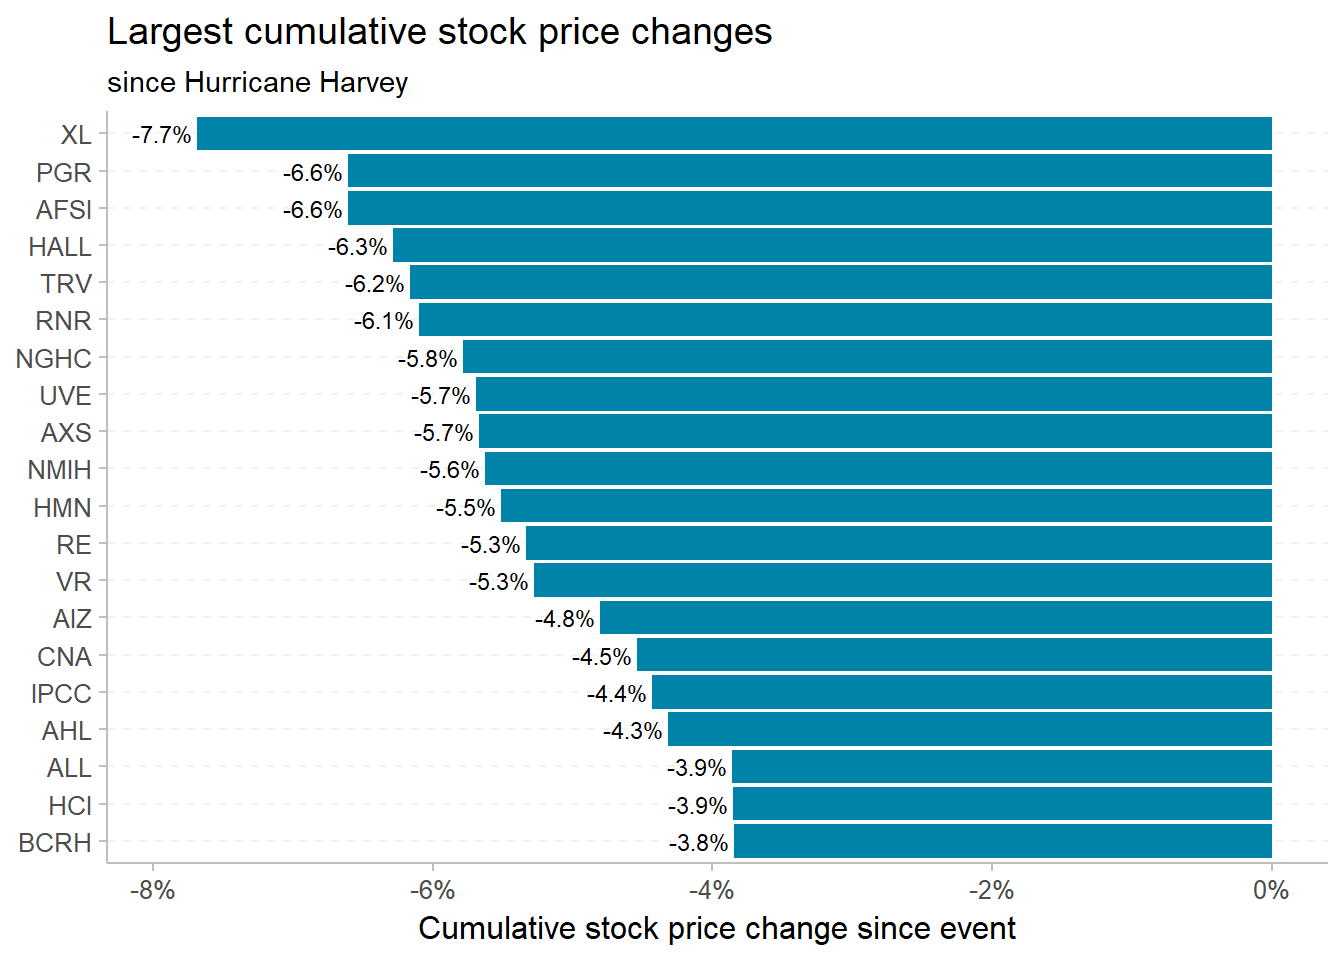
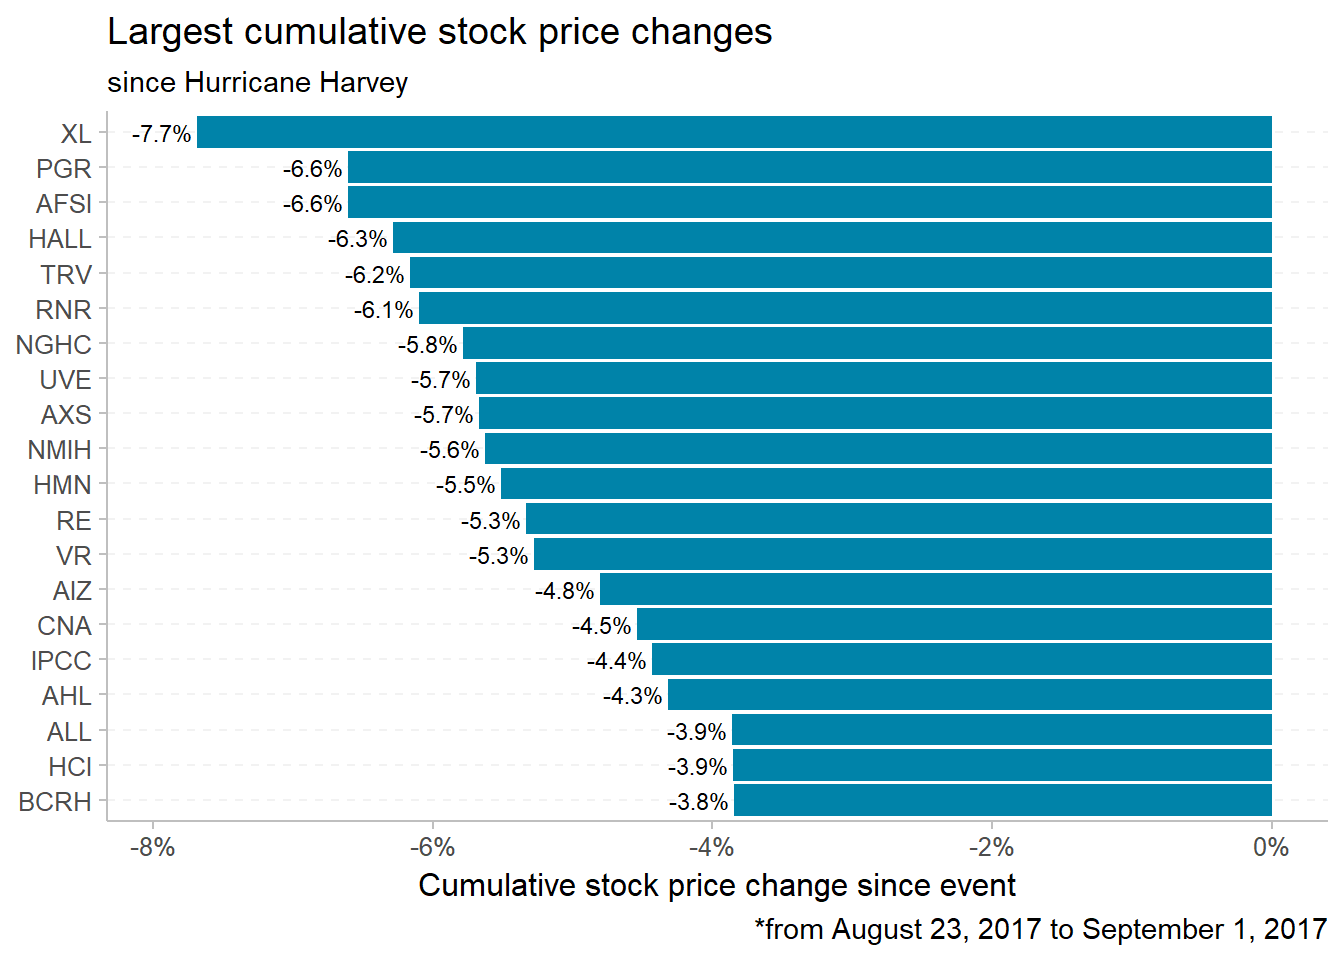
update Harvey part 1

Changed region(s): [[0.2188, 0.1562, 1.0, 1.0], [0.0, 0.125, 0.1562, 0.9375], [0.0938, 0.125, 0.1562, 0.1562]]

diff --git a/static/post/2017-09-03-impact-of-harvey-on-insurer-stock-prices-1_files/figure-html/widgets/widget_summary-datatable.html b/static/post/2017-09-03-impact-of-harvey-on-insurer-stock-prices-1_files/figure-html/widgets/widget_summary-datatable.html
@@ -18,7 +18,7 @@
                                 setTimeout(function(){HTMLWidgets.pymChild.sendHeight();},100);
                             });</script>
 </div>
-<script type="application/json" data-for="htmlwidget-12b8c80f80a83322109c">{"x":{"filter":"none","caption":"<caption>Impact of Hurricane Harvey on P&amp;C (Re)Insurer Stock Prices<\/caption>","fillContainer":true,"data":[["XL","PGR","AFSI","HALL","TRV","RNR","NGHC","UVE","AXS","NMIH","HMN","RE","VR","AIZ","CNA","IPCC","AHL","ALL","HCI","BCRH","PIH","ERIE","CB","CNFR","KMPR","Y","HIG","MTG","KNSL","BWINB","UIHC","L","RLI","HRTG","AGO","WRB","MCY","AIG","PRA","CINF","MKL","SNC","THG","TPRE","UFCS","DGICB","NAVG","GLRE","AMSF","AFG","FNHC","SAFT","ICCH","OB","SIGI","STFC","MBI","DGICA","NGHCP","ACGL","NODK","JRVR","GBLI","ORI","WTM","AGII","EMCI","EIG","RDN","KINS","ESNT","ESGR","MHLD","UNAM","KFS","BWINA","TIPT","FAC"],["XL Group Ltd.","Progressive Corporation (The)","AmTrust Financial Services, Inc.","Hallmark Financial Services, Inc.","The Travelers Companies, Inc.","RenaissanceRe Holdings Ltd.","National General Holdings Corp","UNIVERSAL INSURANCE HOLDINGS INC","Axis Capital Holdings Limited","NMI Holdings Inc","Horace Mann Educators Corporation","Everest Re Group, Ltd.","Validus Holdings, Ltd.","Assurant, Inc.","CNA Financial Corporation","Infinity Property and Casualty Corporation","Aspen Insurance Holdings Limited","Allstate Corporation (The)","HCI Group, Inc.","Blue Capital Reinsurance Holdings Ltd.","1347 Property Insurance Holdings, Inc.","Erie Indemnity Company","D/B/A Chubb Limited New","Conifer Holdings, Inc.","Kemper Corporation","Alleghany Corporation","Hartford Financial Services Group, Inc. (The)","MGIC Investment Corporation","Kinsale Capital Group, Inc.","Baldwin &amp; Lyons, Inc.","United Insurance Holdings Corp.","Loews Corporation","RLI Corp.","Heritage Insurance Holdings, Inc.","Assured Guaranty Ltd.","W.R. Berkley Corporation","Mercury General Corporation","American International Group, Inc.","ProAssurance Corporation","Cincinnati Financial Corporation","Markel Corporation","State National Companies, Inc.","The Hanover Insurance Group, Inc.","Third Point Reinsurance Ltd.","United Fire Group, Inc","Donegal Group, Inc.","The Navigators Group, Inc.","Greenlight Reinsurance, Ltd.","AMERISAFE, Inc.","American Financial Group, Inc.","Federated National Holding Company","Safety Insurance Group, Inc.","ICC Holdings, Inc.","OneBeacon Insurance Group, Ltd.","Selective Insurance Group, Inc.","State Auto Financial Corporation","MBIA, Inc.","Donegal Group, Inc.","National General Holdings Corp","Arch Capital Group Ltd.","NI Holdings, Inc.","James River Group Holdings, Ltd.","Global Indemnity Limited","Old Republic International Corporation","White Mountains Insurance Group, Ltd.","Argo Group International Holdings, Ltd.","EMC Insurance Group Inc.","Employers Holdings Inc","Radian Group Inc.","Kingstone Companies, Inc","Essent Group Ltd.","Enstar Group Limited","Maiden Holdings, Ltd.","Unico American Corporation","Kingsway Financial Services, Inc.","Baldwin &amp; Lyons, Inc.","Tiptree Inc.","First Acceptance Corporation"],[43.86,48.73,13.23,11.01,127.75,146.03,17.96,22.75,63.67,11.4,37.05,264.881,52.58,99.899,51.15,91.95,47.15,93.763,39.9,19.45,8,122.59,144.8,6.6,48.65,575.6,55.505,11.52,38.292,22.55,16.05,47.563,54.521,11.36,42.8,66.94,57.92,60.88,53.8,77.04,1048.98,20.9,97.79,14.1,42.804,14.05,55.65,22.05,54.45,101.94,15.2,72.264,17.7,18.22,50.25,24.48,9.98,15.18,26.011,96.91,16.1,39.73,39.35,19.352,862.5,60.171,27.729,41.65,17.26,15.03,38.47,202.3,7.15,9.7,5.75,21.82,6.05,1.03],[40.619999,45.66,12.44,10.44,119.900002,137.75,16.950001,21.549999,60.389999,10.9,35.150002,248.380005,49.889999,94.599998,49,88.449997,45.400002,89.779999,38.68,18.75,7.6,118.349998,140.490005,6.4,47.599998,563.179993,54.049999,11.4,37.549999,22.200001,15.91,46.91,53.650002,11.26,42.5,66.279999,57.330002,60.700001,53.599998,76.959999,1043.469971,20.780001,97.849998,14.15,42.470001,13.96,55.799999,22.049999,54.75,102.279999,15.28,70.949997,17.719999,18.23,50.700001,24.540001,10.11,15.29,26.26,97.639999,16.33,40.119999,39.790001,19.23,872.700012,60.650002,27.790001,42.450001,17.51,15.1,38.98,206.800003,7.3,10.4,6.05,23.01,6.45,1.13],[-0.0768182045454546,-0.0660666611999726,-0.0660660660660661,-0.0628366247755835,-0.0615950159253742,-0.0609448624862653,-0.0578098387993329,-0.0568928227571116,-0.0567010023446268,-0.0562770562770565,-0.0551074985186156,-0.0533380140211928,-0.0527814525453369,-0.0480105785549786,-0.0453925951532206,-0.0443004415677869,-0.0432033499851769,-0.0386269892808083,-0.0385284613472533,-0.0384615384615383,-0.037974683544304,-0.035845230142566,-0.0331704154314285,-0.0303030303030301,-0.0275792231342346,-0.0268691575300799,-0.023042037480663,-0.020618556701031,-0.02055953830923,-0.0176990707964603,-0.0172946870108285,-0.0166982084140741,-0.015393338142398,-0.0140105078809108,-0.0139210679313719,-0.0138372268090645,-0.013762239570579,-0.00849395608471171,-0.00832564307725503,-0.00658321922572369,-0.00594448965127037,-0.00574157894736815,-0.0042739291016769,-0.00352112676056349,-0.00317851556126991,-0.00285714285714278,-0.0026810008457373,-0.002262488687783,-0.000912390527598395,-0.000586251732900389,0,0.000816508318774334,0.00112983044464232,0.00164829661273114,0.00197634395163426,0.00286072753823952,0.00397219463753684,0.00459921156373189,0.0059760956175301,0.00649414479962629,0.00678181299517955,0.00778693775968509,0.00836295003453991,0.0100158592973851,0.0117322390973034,0.012036914700192,0.013446379826707,0.0143369899324726,0.0150724637681159,0.0154310551902244,0.0158978633280653,0.0199753538840937,0.020979020979021,0.024630541871921,0.0521739130434782,0.0540540540540542,0.0661157024793388,0.107843137254902],[-869063429.664737,-1870487900.55958,-171131043.243243,-12619001.7953321,-2170991790.18432,-358483068.670056,-110689400.182568,-45067934.0111597,-300364714.564295,-38403688.3116885,-83037273.7940652,-580104979.759367,-220687782.574785,-259283047.028669,-629193048.293219,-44970618.6478244,-121896351.035777,-1307463444.93305,-14096909.0231171,-6553153.84615382,-1810632.91139241,-202971181.791153,-2235255580.76764,-1525999.99999999,-68817290.9490954,-238483978.685922,-464028018.709939,-88017550.5154641,-16508964.6844496,-6034604.38247791,-11863757.5116271,-267333404.096411,-36969411.319357,-4235230.82311739,-71301983.7320635,-112328030.744354,-44088094.1399741,-467153851.630946,-23923385.7054831,-83125361.1796446,-86800258.5011031,-5060357.82999976,-17720975.1385665,-5328707.74647903,-3455750.77414877,-1095899.99999997,-4398348.10948448,-1864309.90988704,-955836.739741575,-5259697.7703807,0,898043.271791167,63193.6764297343,2845228.2962625,5795806.50912312,2948288.68672995,4987819.66236296,1905977.66097239,16571908.6254986,82243140.7784535,2435966.19155154,9117282.34605674,5778681.39256659,51110217.6666431,46244086.9319084,21865807.7396983,7952990.03036082,19353165.7905813,55976631.4202897,2463083.42598635,57134812.7443894,78355263.2196841,12993000,1268645.32019704,6437999.99999999,17833427.0270271,17220000,4576431.37254901]],"container":"<table class=\"display fill-container\">\n  <thead>\n    <tr>\n      <th>Ticker<\/th>\n      <th>Company<\/th>\n      <th>Initial Stock Price<\/th>\n      <th>End Stock Price<\/th>\n      <th>% change<\/th>\n      <th>Market Cap change<\/th>\n    <\/tr>\n  <\/thead>\n<\/table>","options":{"columnDefs":[{"className":"dt-center"},{"className":"dt-right","targets":[2,3,4,5]}],"pageLength":15,"lengthMenu":[10,15,20,25],"order":[],"autoWidth":false,"orderClasses":false,"rowCallback":"function(row, data) {\nDTWidget.formatPercentage(this, row, data, 4, 1);\nDTWidget.formatCurrency(this, row, data, 5, '', 0, 3, ',', '.', true);\nDTWidget.formatCurrency(this, row, data, 2, '', 2, 3, ',', '.', true);\nDTWidget.formatCurrency(this, row, data, 3, '', 2, 3, ',', '.', true);\n}"}},"evals":["options.rowCallback"],"jsHooks":[]}</script>
+<script type="application/json" data-for="htmlwidget-12b8c80f80a83322109c">{"x":{"filter":"none","caption":"<caption style=\"caption-side: top; text-align: left;\">\n  <em>from August 23, 2017 to September 1, 2017<\/em>\n<\/caption>","fillContainer":true,"data":[["XL","PGR","AFSI","HALL","TRV","RNR","NGHC","UVE","AXS","NMIH","HMN","RE","VR","AIZ","CNA","IPCC","AHL","ALL","HCI","BCRH","PIH","ERIE","CB","CNFR","KMPR","Y","HIG","MTG","KNSL","BWINB","UIHC","L","RLI","HRTG","AGO","WRB","MCY","AIG","PRA","CINF","MKL","SNC","THG","TPRE","UFCS","DGICB","NAVG","GLRE","AMSF","AFG","FNHC","SAFT","ICCH","OB","SIGI","STFC","MBI","DGICA","NGHCP","ACGL","NODK","JRVR","GBLI","ORI","WTM","AGII","EMCI","EIG","RDN","KINS","ESNT","ESGR","MHLD","UNAM","KFS","BWINA","TIPT","FAC"],["XL Group Ltd.","Progressive Corporation (The)","AmTrust Financial Services, Inc.","Hallmark Financial Services, Inc.","The Travelers Companies, Inc.","RenaissanceRe Holdings Ltd.","National General Holdings Corp","UNIVERSAL INSURANCE HOLDINGS INC","Axis Capital Holdings Limited","NMI Holdings Inc","Horace Mann Educators Corporation","Everest Re Group, Ltd.","Validus Holdings, Ltd.","Assurant, Inc.","CNA Financial Corporation","Infinity Property and Casualty Corporation","Aspen Insurance Holdings Limited","Allstate Corporation (The)","HCI Group, Inc.","Blue Capital Reinsurance Holdings Ltd.","1347 Property Insurance Holdings, Inc.","Erie Indemnity Company","D/B/A Chubb Limited New","Conifer Holdings, Inc.","Kemper Corporation","Alleghany Corporation","Hartford Financial Services Group, Inc. (The)","MGIC Investment Corporation","Kinsale Capital Group, Inc.","Baldwin &amp; Lyons, Inc.","United Insurance Holdings Corp.","Loews Corporation","RLI Corp.","Heritage Insurance Holdings, Inc.","Assured Guaranty Ltd.","W.R. Berkley Corporation","Mercury General Corporation","American International Group, Inc.","ProAssurance Corporation","Cincinnati Financial Corporation","Markel Corporation","State National Companies, Inc.","The Hanover Insurance Group, Inc.","Third Point Reinsurance Ltd.","United Fire Group, Inc","Donegal Group, Inc.","The Navigators Group, Inc.","Greenlight Reinsurance, Ltd.","AMERISAFE, Inc.","American Financial Group, Inc.","Federated National Holding Company","Safety Insurance Group, Inc.","ICC Holdings, Inc.","OneBeacon Insurance Group, Ltd.","Selective Insurance Group, Inc.","State Auto Financial Corporation","MBIA, Inc.","Donegal Group, Inc.","National General Holdings Corp","Arch Capital Group Ltd.","NI Holdings, Inc.","James River Group Holdings, Ltd.","Global Indemnity Limited","Old Republic International Corporation","White Mountains Insurance Group, Ltd.","Argo Group International Holdings, Ltd.","EMC Insurance Group Inc.","Employers Holdings Inc","Radian Group Inc.","Kingstone Companies, Inc","Essent Group Ltd.","Enstar Group Limited","Maiden Holdings, Ltd.","Unico American Corporation","Kingsway Financial Services, Inc.","Baldwin &amp; Lyons, Inc.","Tiptree Inc.","First Acceptance Corporation"],[43.86,48.73,13.23,11.01,127.75,146.03,17.96,22.75,63.67,11.4,37.05,264.881,52.58,99.899,51.15,91.95,47.15,93.763,39.9,19.45,8,122.59,144.8,6.6,48.65,575.6,55.505,11.52,38.292,22.55,16.05,47.563,54.521,11.36,42.8,66.94,57.92,60.88,53.8,77.04,1048.98,20.9,97.79,14.1,42.804,14.05,55.65,22.05,54.45,101.94,15.2,72.264,17.7,18.22,50.25,24.48,9.98,15.18,26.011,96.91,16.1,39.73,39.35,19.352,862.5,60.171,27.729,41.65,17.26,15.03,38.47,202.3,7.15,9.7,5.75,21.82,6.05,1.03],[40.619999,45.66,12.44,10.44,119.900002,137.75,16.950001,21.549999,60.389999,10.9,35.150002,248.380005,49.889999,94.599998,49,88.449997,45.400002,89.779999,38.68,18.75,7.6,118.349998,140.490005,6.4,47.599998,563.179993,54.049999,11.4,37.549999,22.200001,15.91,46.91,53.650002,11.26,42.5,66.279999,57.330002,60.700001,53.599998,76.959999,1043.469971,20.780001,97.849998,14.15,42.470001,13.96,55.799999,22.049999,54.75,102.279999,15.28,70.949997,17.719999,18.23,50.700001,24.540001,10.11,15.29,26.26,97.639999,16.33,40.119999,39.790001,19.23,872.700012,60.650002,27.790001,42.450001,17.51,15.1,38.98,206.800003,7.3,10.4,6.05,23.01,6.45,1.13],[-0.0768182045454546,-0.0660666611999726,-0.0660660660660661,-0.0628366247755835,-0.0615950159253742,-0.0609448624862653,-0.0578098387993329,-0.0568928227571116,-0.0567010023446268,-0.0562770562770565,-0.0551074985186156,-0.0533380140211928,-0.0527814525453369,-0.0480105785549786,-0.0453925951532206,-0.0443004415677869,-0.0432033499851769,-0.0386269892808083,-0.0385284613472533,-0.0384615384615383,-0.037974683544304,-0.035845230142566,-0.0331704154314285,-0.0303030303030301,-0.0275792231342346,-0.0268691575300799,-0.023042037480663,-0.020618556701031,-0.02055953830923,-0.0176990707964603,-0.0172946870108285,-0.0166982084140741,-0.015393338142398,-0.0140105078809108,-0.0139210679313719,-0.0138372268090645,-0.013762239570579,-0.00849395608471171,-0.00832564307725503,-0.00658321922572369,-0.00594448965127037,-0.00574157894736815,-0.0042739291016769,-0.00352112676056349,-0.00317851556126991,-0.00285714285714278,-0.0026810008457373,-0.002262488687783,-0.000912390527598395,-0.000586251732900389,0,0.000816508318774334,0.00112983044464232,0.00164829661273114,0.00197634395163426,0.00286072753823952,0.00397219463753684,0.00459921156373189,0.0059760956175301,0.00649414479962629,0.00678181299517955,0.00778693775968509,0.00836295003453991,0.0100158592973851,0.0117322390973034,0.012036914700192,0.013446379826707,0.0143369899324726,0.0150724637681159,0.0154310551902244,0.0158978633280653,0.0199753538840937,0.020979020979021,0.024630541871921,0.0521739130434782,0.0540540540540542,0.0661157024793388,0.107843137254902],[-869.063429664737,-1870.48790055958,-171.131043243243,-12.6190017953321,-2170.99179018432,-358.483068670056,-110.689400182568,-45.0679340111597,-300.364714564295,-38.4036883116885,-83.0372737940652,-580.104979759367,-220.687782574785,-259.283047028669,-629.193048293219,-44.9706186478244,-121.896351035777,-1307.46344493305,-14.0969090231171,-6.55315384615382,-1.81063291139241,-202.971181791153,-2235.25558076764,-1.52599999999999,-68.8172909490954,-238.483978685922,-464.028018709939,-88.0175505154641,-16.5089646844496,-6.03460438247791,-11.8637575116271,-267.333404096411,-36.969411319357,-4.23523082311739,-71.3019837320635,-112.328030744354,-44.0880941399741,-467.153851630946,-23.9233857054831,-83.1253611796446,-86.8002585011031,-5.06035782999976,-17.7209751385665,-5.32870774647903,-3.45575077414877,-1.09589999999997,-4.39834810948448,-1.86430990988704,-0.955836739741575,-5.2596977703807,0,0.898043271791167,0.0631936764297343,2.8452282962625,5.79580650912312,2.94828868672995,4.98781966236296,1.90597766097239,16.5719086254986,82.2431407784535,2.43596619155154,9.11728234605674,5.77868139256659,51.1102176666431,46.2440869319084,21.8658077396983,7.95299003036082,19.3531657905813,55.9766314202896,2.46308342598635,57.1348127443894,78.3552632196841,12.993,1.26864532019704,6.43799999999999,17.8334270270271,17.22,4.57643137254901]],"container":"<table class=\"display fill-container\">\n  <thead>\n    <tr>\n      <th>Ticker<\/th>\n      <th>Company<\/th>\n      <th>Initial stock price<\/th>\n      <th>End stock price<\/th>\n      <th>% change<\/th>\n      <th>Market cap change ($m)<\/th>\n    <\/tr>\n  <\/thead>\n<\/table>","options":{"columnDefs":[{"className":"dt-left"},{"className":"dt-right","targets":[2,3,4,5]}],"pageLength":15,"lengthMenu":[10,15,20,25],"order":[],"autoWidth":false,"orderClasses":false,"rowCallback":"function(row, data) {\nDTWidget.formatPercentage(this, row, data, 4, 1);\nDTWidget.formatCurrency(this, row, data, 5, '', 1, 3, ',', '.', true);\nDTWidget.formatCurrency(this, row, data, 2, '', 2, 3, ',', '.', true);\nDTWidget.formatCurrency(this, row, data, 3, '', 2, 3, ',', '.', true);\n}"}},"evals":["options.rowCallback"],"jsHooks":[]}</script>
 <script type="application/htmlwidget-sizing" data-for="htmlwidget-12b8c80f80a83322109c">{"viewer":{"width":"100%","height":350,"padding":0,"fill":false},"browser":{"width":"100%","height":500,"padding":0,"fill":false}}</script>
 </body>
 </html>

diff --git a/content/post/2017-09-03-impact-of-harvey-on-insurer-stock-prices-1.html b/content/post/2017-09-03-impact-of-harvey-on-insurer-stock-prices-1.html
@@ -16,22 +16,32 @@ draft: false
 <script src="/rmarkdown-libs/widgetframe-binding/widgetframe.js"></script>
 
 
-<div id="impact-of-hurricane-harvey-on-u.s.-pc-reinsurers-stock-prices" class="section level1">
-<h1>Impact of Hurricane Harvey on U.S. P&amp;C (Re)Insurers Stock Prices</h1>
-<p>Calculate change in stock price from August 23, 2017 thru September 1, 2017. Call this the estimated impact of Hurricane Harvey.</p>
-</div>
+<p>Below we calculate the change in stock price from August 23, 2017 thru September 1, 2017 for P&amp;C (re)insurers. We use that number as the estimated impact of Hurricane Harvey on a given stock. Since we do not have company specific loss estimates at this time, the impact mostly reflects investors expectations of which companies have the greatest exposure to loss. Therefore, we would expect companies with greater concentration in TX, and in this case TX auto, to see a larger impact.</p>
 <div id="graph-of-recent-stock-prices" class="section level1">
-<h1>Graph of Recent Stock Prices</h1>
-<p>Graph the recent stock prices for the six companies that were most impacted by Harvey. Event time period is highlighted in gray.</p>
+<h1>Graph of recent stock prices</h1>
+<p>The graph below shows the recent open/high/low/close stock prices for the six companies that were most impacted by Harvey. The post event time period is highlighted in gray.</p>
 <p><img src="/post/2017-09-03-impact-of-harvey-on-insurer-stock-prices-1_files/figure-html/initial-plot-1.png" width="672" /></p>
-<p>Daily returns for these same stocks. S&amp;P 500 was flat over the Harvey time period.</p>
+<p>Comments on companies:</p>
+<ul>
+<li><strong>XL:</strong> Not intuitive choice for largest impact. They do have substantial reinsurance exposure in addition to their primary commercial lines. Stock price had already fallen post Q2 earnings call, so may be hangover from that event.</li>
+<li><strong>PGR:</strong> Top five auto market share in TX.</li>
+<li><strong>AFSI:</strong> AmTrust does have material exposure through Republic, and cats adversely impacted results over first two quarters. However, there also was a recent negative WSJ article that may have re-kindled negative sentiment towards AFSI.</li>
+<li><strong>HALL:</strong> Small TX regional carrier.</li>
+<li><strong>TRV:</strong> Meaningful market share in HO, Auto, and Commercial lines in TX.</li>
+<li><strong>RNR:</strong> Cat focused reinsurer.</li>
+</ul>
+<p>Daily returns for these same stocks is shown below. The S&amp;P 500 was flat over the Harvey time period. Multiple days of greater than one percent drops as Harvey made landfall and sat over Houston.</p>
 <p><img src="/post/2017-09-03-impact-of-harvey-on-insurer-stock-prices-1_files/figure-html/initial-plot-2-1.png" width="672" /></p>
 </div>
 <div id="summary-table" class="section level1">
 <h1>Summary table</h1>
-<p>Impact on each stock.</p>
+<p>The table below shows the cumulative impact on stock prices for all U.S. P&amp;C (re)insurers. The final column includes the change in market capitalization. Due to its size, CB lost the most market value at just over $2B.</p>
+<div id="impact-of-hurricane-harvey-on-pc-reinsurer-stock-prices" class="section level4">
+<h4>Impact of Hurricane Harvey on P&amp;C (Re)Insurer Stock Prices</h4>
 <div id="htmlwidget-1" style="width:100%;height:480px;" class="widgetframe html-widget"></div>
 <script type="application/json" data-for="htmlwidget-1">{"x":{"url":"/post/2017-09-03-impact-of-harvey-on-insurer-stock-prices-1_files/figure-html//widgets/widget_summary-datatable.html","options":{"xdomain":"*","allowfullscreen":false,"lazyload":false}},"evals":[],"jsHooks":[]}</script>
 <p><br></p>
+<p>The impacts fit with our prior expectation of larger impacts for TX heavy carriers, auto carriers, and cat focused reinsurers. In the absence of actual company loss estimates, that is the best that investors can do. We will have to wait and see how things actually turn out.</p>
 <p><img src="/post/2017-09-03-impact-of-harvey-on-insurer-stock-prices-1_files/figure-html/summary-graph-1.png" width="672" /></p>
+</div>
 </div>
